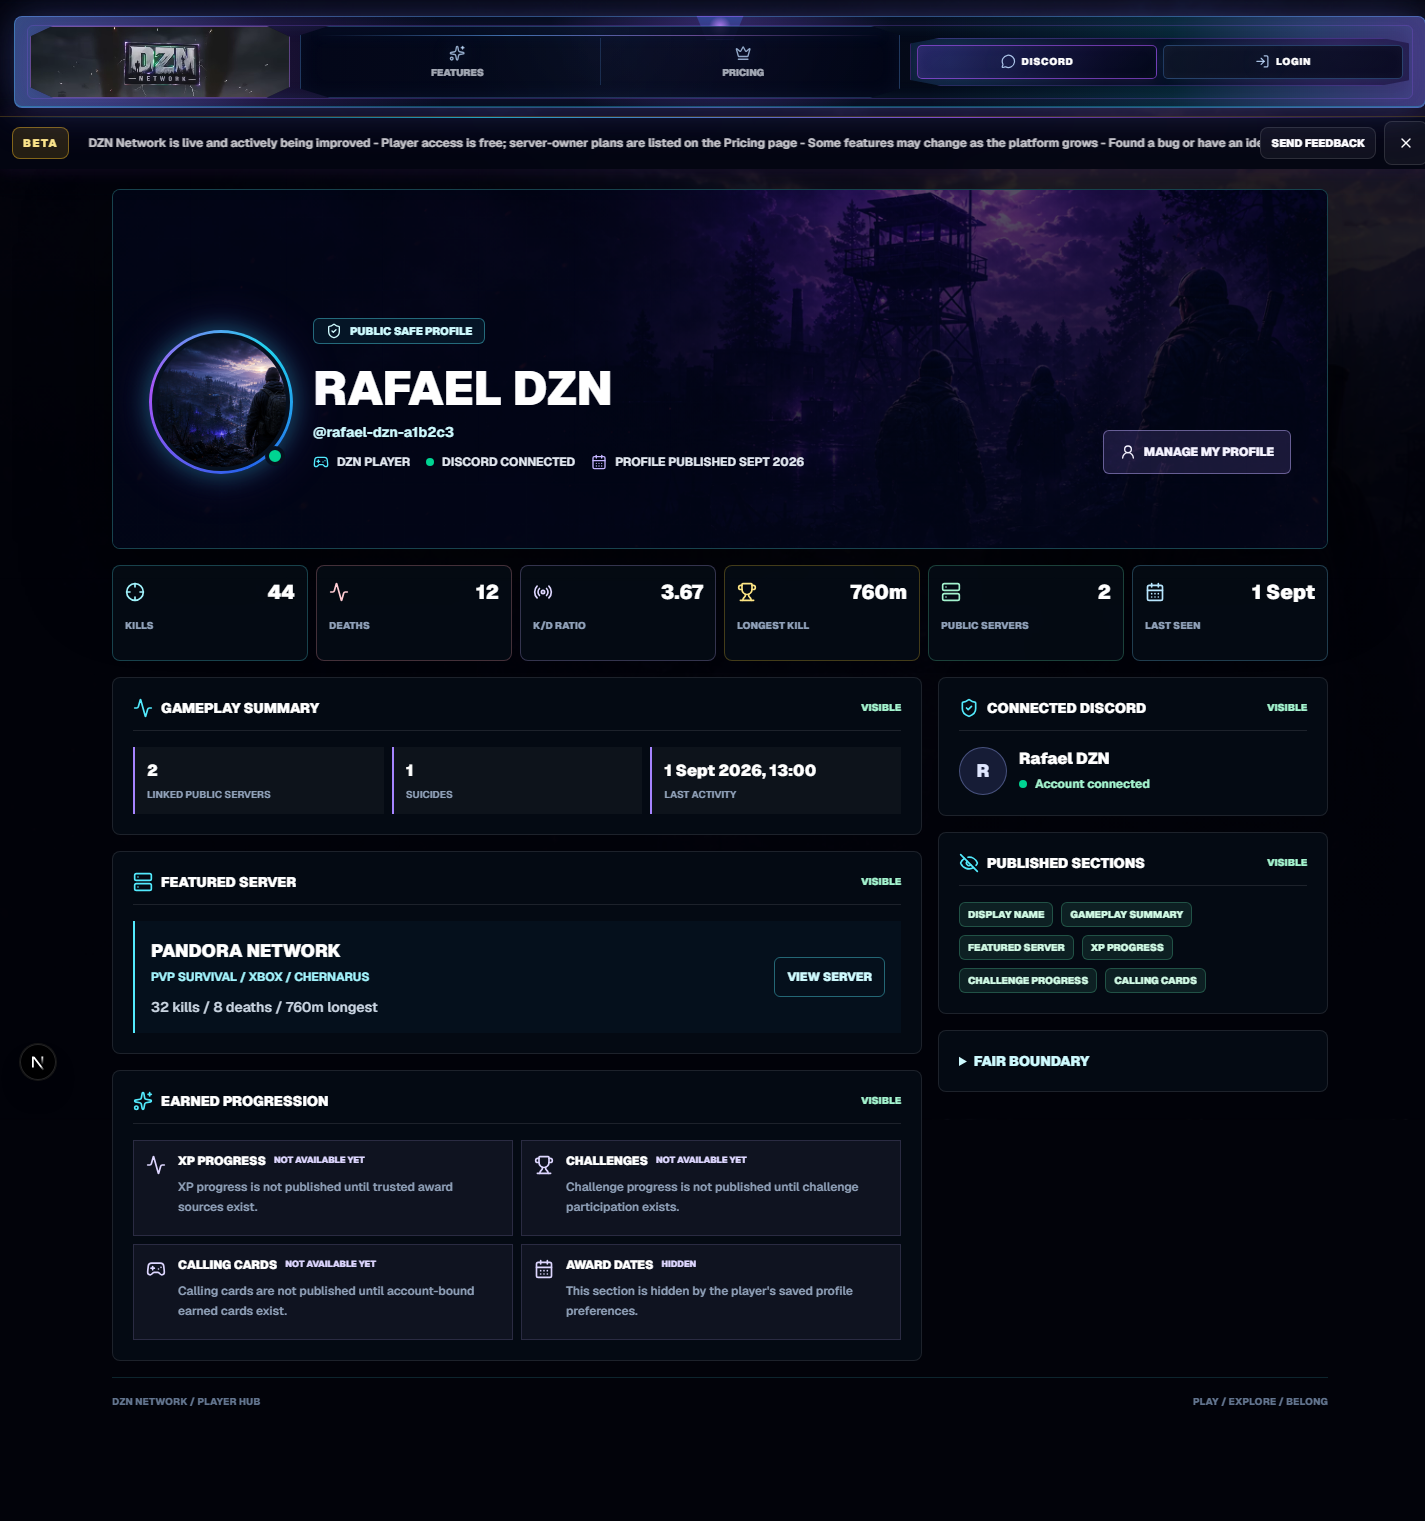
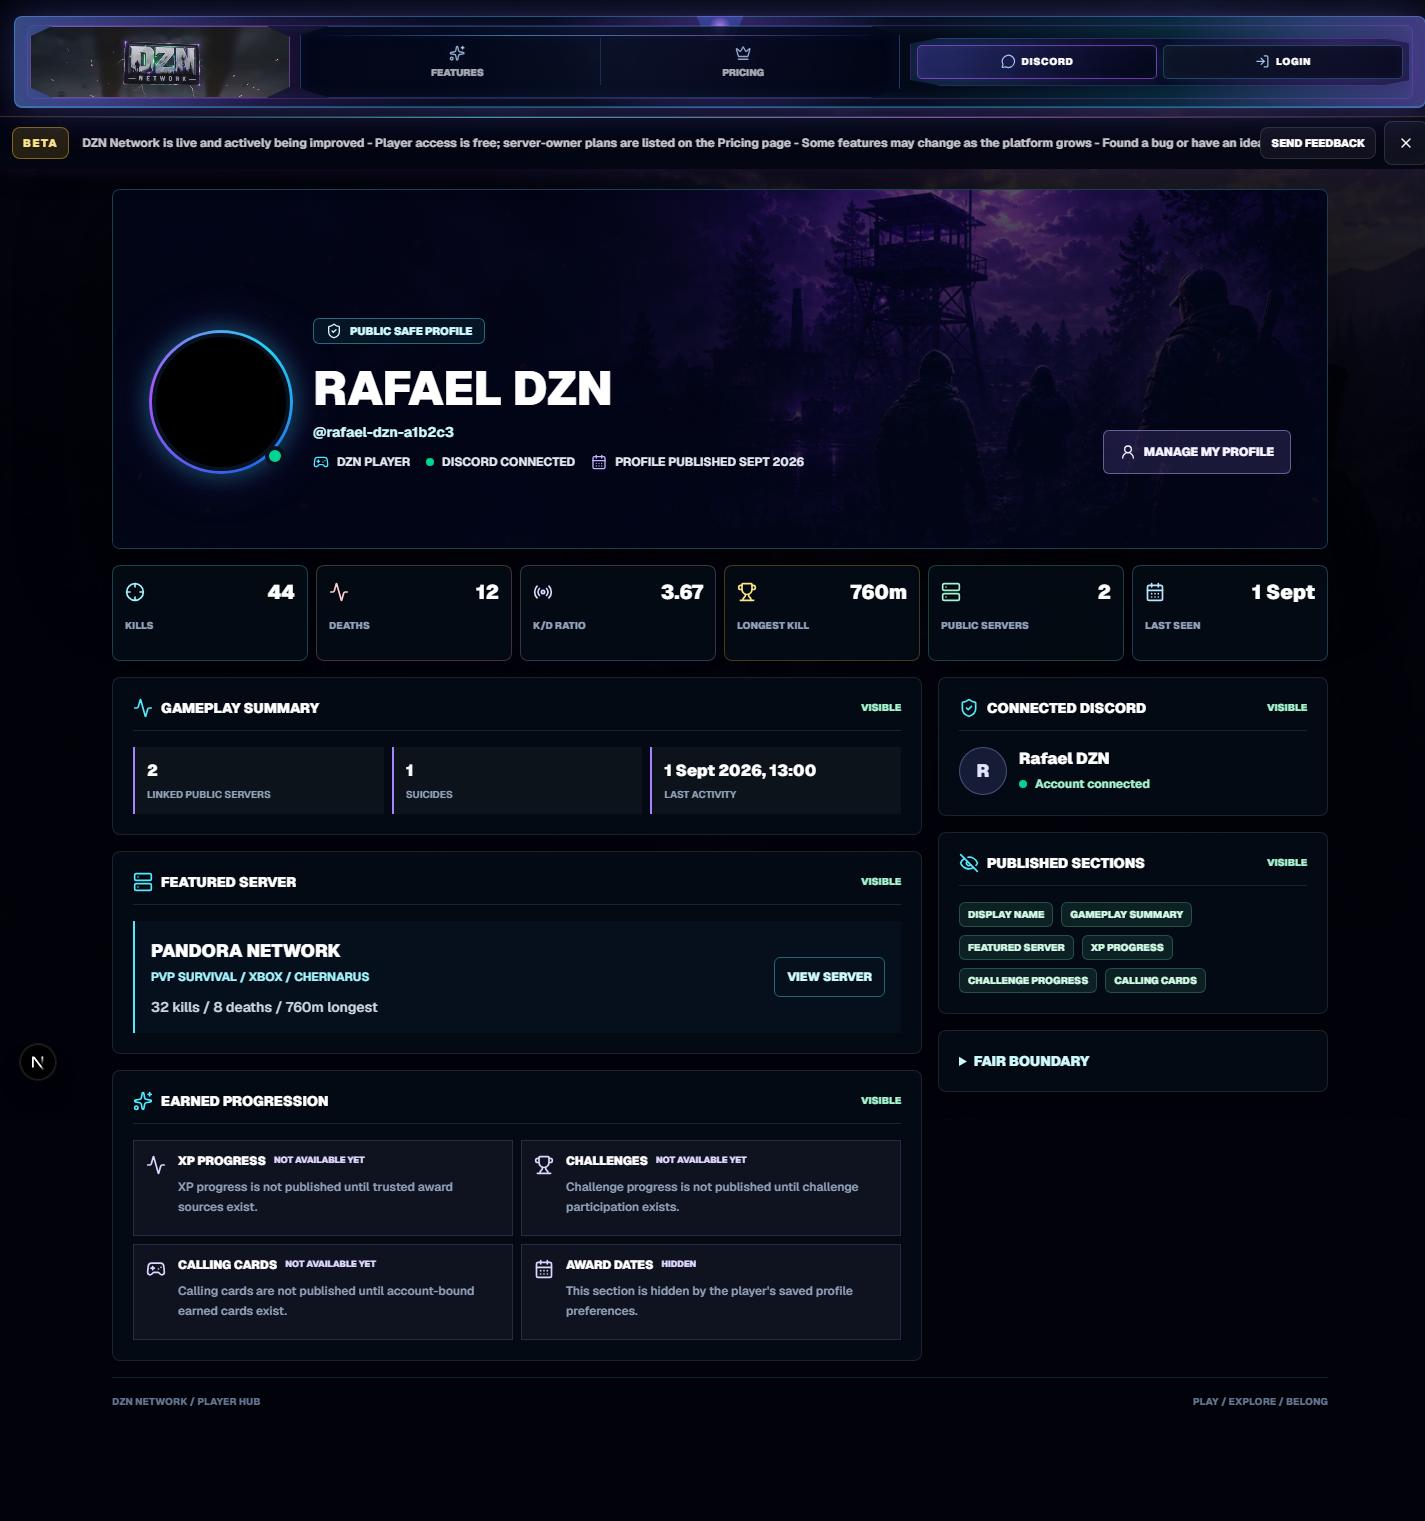
Hide private Discord profile details

diff --git a/components/player/public-player-profile.tsx b/components/player/public-player-profile.tsx
@@ -146,7 +146,9 @@ function PublishedProfile({ data }: { data: PublicPlayerProfilePayload }) {
         </div>
         <aside className="space-y-4">
           <ProfileBand icon={<ShieldCheck aria-hidden="true" className="h-5 w-5" />} title="Connected Discord" visible={data.discord_profile.visible && data.discord_profile.connected}>
-            <div className="flex items-center gap-3"><div className="flex h-12 w-12 shrink-0 items-center justify-center rounded-full border border-indigo-300/35 bg-indigo-400/15 text-lg font-black text-indigo-100">{initial}</div><div className="min-w-0"><p className="truncate font-black text-white">{data.display_name}</p><p className="mt-1 inline-flex items-center gap-2 text-xs font-bold text-emerald-200"><span className="h-2 w-2 rounded-full bg-emerald-400" /> Account connected</p></div></div>
+            {data.discord_profile.visible && data.discord_profile.connected ? (
+              <div className="flex items-center gap-3"><div className="flex h-12 w-12 shrink-0 items-center justify-center rounded-full border border-indigo-300/35 bg-indigo-400/15 text-lg font-black text-indigo-100">{initial}</div><div className="min-w-0"><p className="truncate font-black text-white">{data.display_name}</p><p className="mt-1 inline-flex items-center gap-2 text-xs font-bold text-emerald-200"><span className="h-2 w-2 rounded-full bg-emerald-400" /> Account connected</p></div></div>
+            ) : <HiddenCopy />}
           </ProfileBand>
           <ProfileBand icon={<EyeOff aria-hidden="true" className="h-5 w-5" />} title="Published Sections" visible>
             <div className="flex flex-wrap gap-2">{data.privacy.visible_sections.length ? data.privacy.visible_sections.map((section) => <span key={section} className="rounded-md border border-emerald-300/25 bg-emerald-300/10 px-2 py-1 text-[10px] font-black uppercase text-emerald-100">{section.replace(/_/g, " ")}</span>) : <span className="text-sm font-semibold text-slate-300">No optional sections are visible.</span>}</div>

diff --git a/scripts/test-public-player-profile-viewer.ts b/scripts/test-public-player-profile-viewer.ts
@@ -82,6 +82,7 @@ assert.doesNotMatch(component, /SiteHeaderAuthState authenticated=\{false\}/, "P
 assert.match(component, /Manage My Profile/, "Public profile UI must send owners to the private profile settings surface.");
 assert.match(component, /onError=\{\(\) => setFailed\(true\)\}/, "A failed public Discord avatar request must reveal the player's initial fallback.");
 assert.match(component, /<span aria-hidden="true">\{initial\}<\/span>/, "The public avatar must retain an initial beneath the image layer.");
+assert.match(component, /data\.discord_profile\.visible && data\.discord_profile\.connected \? \([\s\S]*Account connected[\s\S]*\) : <HiddenCopy \/>/, "Discord connection details must be replaced with privacy-safe hidden copy when identity visibility is off.");
 assert.doesNotMatch(component, /\b(?:sendBeacon|analytics|localStorage|sessionStorage)\b/i, "Public profile UI must not store share history or track analytics.");
 assert.doesNotMatch(component, /fetch\([^)]*(?:checkout|STRIPE|nitrado_connections|account_entitlements|supporter_cards|earned_spins|spin_ledger|wheel_cooldowns|server_reviews|competitive_events|leaderboards)/i, "Public profile UI must not call Store/payment/owner/review/event/competitive routes.");
 assert.match(privatePrivacyRoute, /ensureCurrentPublicProfileHandle/, "Private profile settings must create a handle only from the authenticated current-user route.");

diff --git a/docs/qa/public-player-profile-viewer-qa-20260901/README.md b/docs/qa/public-player-profile-viewer-qa-20260901/README.md
@@ -10,6 +10,7 @@ No production D1, Stripe, Cloudflare secret/config, Nitrado, Discord runtime, St
 | --- | --- | --- | --- |
 | published | desktop | [screenshots/published-desktop.png](screenshots/published-desktop.png) | 16 text/boundary/overlap checks |
 | published | mobile | [screenshots/published-mobile.png](screenshots/published-mobile.png) | 16 text/boundary/overlap checks |
+| identityHidden | desktop | [screenshots/identityHidden-desktop.png](screenshots/identityHidden-desktop.png) | 11 text/boundary/overlap checks |
 | hidden | desktop | [screenshots/hidden-desktop.png](screenshots/hidden-desktop.png) | 9 text/boundary/overlap checks |
 | unavailable | desktop | [screenshots/unavailable-desktop.png](screenshots/unavailable-desktop.png) | 7 text/boundary/overlap checks |
 | invalidHandle | desktop | [screenshots/invalidHandle-desktop.png](screenshots/invalidHandle-desktop.png) | 8 text/boundary/overlap checks |
@@ -32,6 +33,12 @@ Console warnings/errors: none captured.
 Network failures: none captured.
 
 ### published / mobile
+
+Console warnings/errors: none captured.
+
+Network failures: none captured.
+
+### identityHidden / desktop
 
 Console warnings/errors: none captured.
 
